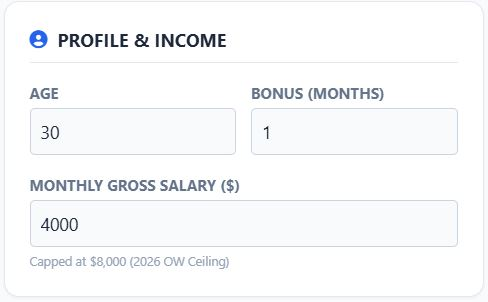
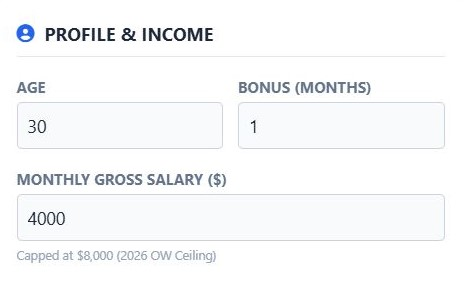
images

diff --git a/help.html b/help.html
@@ -78,7 +78,7 @@
                     
                     <!-- Screenshot Placeholder -->
                     <div class="mb-4 rounded-lg overflow-hidden border border-slate-200 shadow-sm">
-                        <img src="https://github.com/shamim-akhtar/cpf-sim/blob/main/images/Profile_and_Income.JPG" alt="Profile Inputs" class="w-full h-auto">
+                        <img src="https://raw.githubusercontent.com/shamim-akhtar/cpf-sim/main/images/Profile_and_Income.JPG" alt="Profile Inputs" class="w-full h-auto">
                     </div>
 
                     <div class="bg-white p-6 rounded-xl border border-slate-200 shadow-sm space-y-4">
